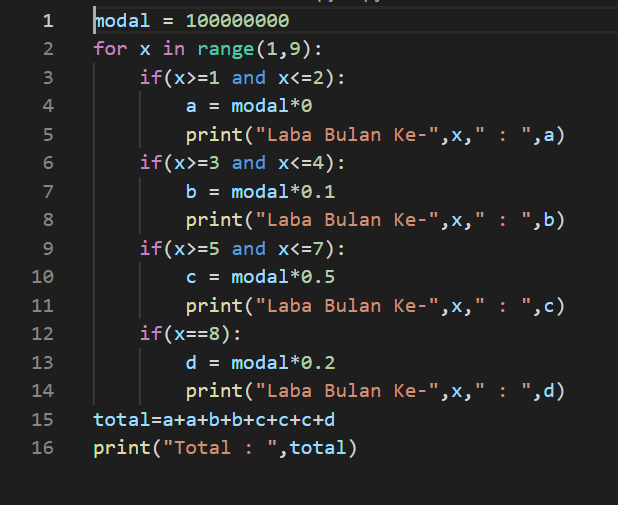
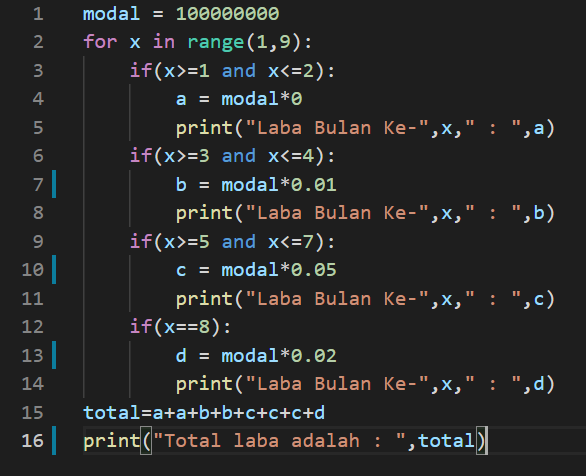
perubahan pada readme

diff --git a/latihan/latihan2.py b/latihan/latihan2.py
@@ -1,35 +1,8 @@
-def bilanganterbesar (bilangan_pertama,bilangan_kedua,bilangan_ketiga):
-  if bilangan_pertama > bilangan_kedua and bilangan_kedua > bilangan_ketiga:
-    return bilangan_pertama
-  elif bilangan_kedua > bilangan_pertama and bilangan_pertama > bilangan_ketiga:
-    return bilangan_kedua
+print("Program Mencari Bilangan Terbesar dari 3 Bilangan")
 
-  return bilangan_ketiga
+bilangan_pertama = int(input("Bilangan ke-1 = "))
+bilangan_kedua = int(input("Bilangan ke-2 = "))
+bilangan_ketiga = int(input("Bilangan ke-3 = "))
 
-def bilanganterkecil(bilangan_pertama, bilangan_kedua, bilangan_ketiga):
-  if bilangan_pertama < bilangan_kedua and bilangan_pertama < bilangan_ketiga:
-    return bilangan_pertama
-  elif bilangan_kedua < bilangan_pertama and bilangan_kedua < bilangan_ketiga:
-    return bilangan_kedua
-
-  return bilangan_ketiga
-
-def bilangantengah(bilangan_pertama, bilangan_kedua, bilangan_ketiga):
-  if (bilangan_kedua > bilangan_pertama > bilangan_ketiga) or (bilangan_ketiga > bilangan_pertama > bilangan_kedua):
-    return bilangan_pertama
-  elif (bilangan_pertama > bilangan_kedua > bilangan_ketiga) or  (bilangan_ketiga > bilangan_kedua > bilangan_pertama):
-    return bilangan_kedua
-  
-  return bilangan_ketiga
-
-print("Program Pengurutan Data")
-bilangan_pertama = int(input("Masukkan bilangan ke-1: "))
-bilangan_kedua = int(input("Masukkan bilangan ke-2: "))
-bilangan_ketiga = int(input("Masukkan bilangan ke-3: "))
-
-A = bilanganterkecil(bilangan_pertama, bilangan_kedua, bilangan_ketiga)
-B = bilangantengah(bilangan_pertama, bilangan_kedua, bilangan_ketiga)
-C = bilanganterbesar(bilangan_pertama, bilangan_kedua, bilangan_ketiga)
-
-
-print(f'Urutan bilangan: {A}, {B}, {C}')
+Bilangan=[bilangan_pertama, bilangan_kedua, bilangan_ketiga]
+print("Urutan bilangan", sorted(Bilangan))

diff --git a/latihan/labpy03.py b/latihan/labpy03.py
@@ -4,13 +4,13 @@ for x in range(1,9):
         a = modal*0
         print("Laba Bulan Ke-",x," : ",a)
     if(x>=3 and x<=4):
-        b = modal*0.1
+        b = modal*0.01
         print("Laba Bulan Ke-",x," : ",b)
     if(x>=5 and x<=7):
-        c = modal*0.5
+        c = modal*0.05
         print("Laba Bulan Ke-",x," : ",c)
     if(x==8):
-        d = modal*0.2
+        d = modal*0.02
         print("Laba Bulan Ke-",x," : ",d)
 total=a+a+b+b+c+c+c+d
-print("Total : ",total)
+print("Total laba adalah : ",total)

diff --git a/README.md b/README.md
@@ -73,13 +73,19 @@ Akan memunculkan angka random kurang dari 0.5 sebanyak 5 data
 ## labpy03.2 Menentukan Bilangan Terbesar dari N buah data
 
 Scriptnya seperti ini
+
 ![Gambar 14](gambar/ss15.png)
-Masukkan bilangan yang di inginkan, lalu gunakan bilangan 0 untuk mengakhiri
-![Gambar 15](gambar/ss16.png)
+
 max = 0 adalah perintah yang digunakan untuk menampilkan nilai maximal yaitu 0 lalu gunakan break untuk mengakhiri pengulangan. jadi ketika menginput 0 maka pengulangan akan selesai.
+Masukkan bilangan yang di inginkan, lalu gunakan bilangan 0 untuk mengakhiri. Maka outputnya akan muncul seperti ini : 
+![Gambar 15](gambar/ss16.png)
+
 
 ## labpy03 Menentukan Total Laba
+Masukkan scriptnya seperti ini :
+modal dikali persen keuntungan akan menghasilkan laba. lalu totalkan laba setiap bulannya dengan menjumlahkan setiap laba
 ![Gambar 16](gambar/ss17.png)
+maka hasilnya akan seperti ini 
 ![Gambar 17](gambar/ss18.png)
 
 
